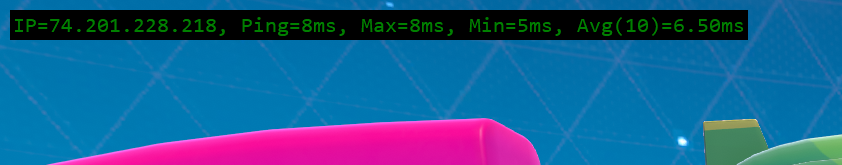
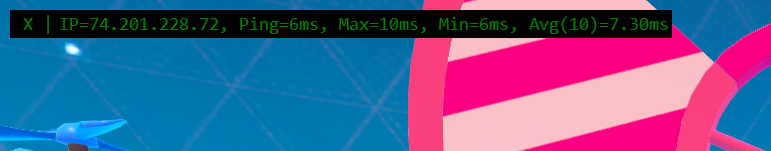
Fixup Read Me and Instructions

diff --git a/README.md b/README.md
@@ -16,14 +16,6 @@ To install you must have Python 3.9+ and run the following command:
 python -m pip install git+https://github.com/notatallshaw/fall_guys_ping_estimate.git
 ```
 
-### Warning - Installing in a conda environment
-
-If you are installing in a conda environmnet (Anaconda / Miniconda / Miniforge / Mambaforge) you must first install pywin32 using conda instead of pip. I sugest running this in your conda environment before runing the above pip install:
-
-```
-conda install pywin32 psutil
-```
-
 ## Run
 
 On the command line run:
@@ -34,5 +26,5 @@ python -m fgpe
 
 ## Shutdown
 
-Currently there is no shutdown functionality, you must close the command window you used to open Fall Guys Ping Estimate.
+Press the X at the leftmost section of the overlay
 
